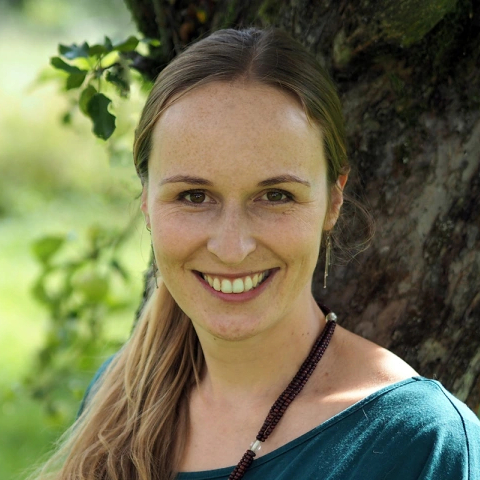
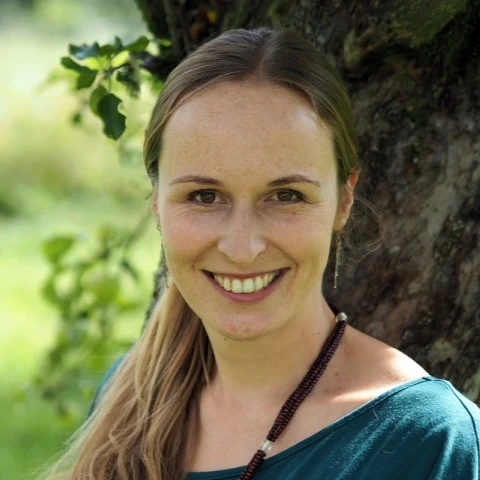
Profile pic fix

diff --git a/index.html b/index.html
@@ -11,7 +11,8 @@
         <link href="assets/fonts.css?v=20260721-2" rel="stylesheet" />
         <link href="assets/styles.css?v=20260721-1" rel="stylesheet" />
         <link as="image"
-                href="pic/Z-profile.webp"
+                href="pic/profile.webp"
+                type="image/webp"
                 fetchpriority="high" rel="preload" />
             <script src="form.js" defer></script>
         <style>
@@ -61,7 +62,7 @@
                         <div class="relative w-64 h-64 md:w-[400px] md:h-[400px]"><img alt="Mgr. Lucie Marcinčinová"
                                         class="relative z-10 w-full h-full object-cover border-4 border-surface shadow-[0_20px_60px_rgba(44,62,71,0.08)]"
                                         decoding="async" fetchpriority="high" height="400" loading="eager"
-                                        src="pic/Z-profile.webp"
+                                        src="pic/profile.webp"
                                         width="400"
                                         style="border-radius: 60% 40% 30% 70% / 60% 30% 70% 40%;" /></div>
                 </div>